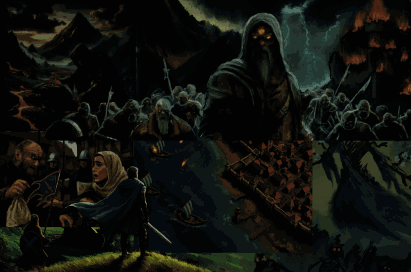
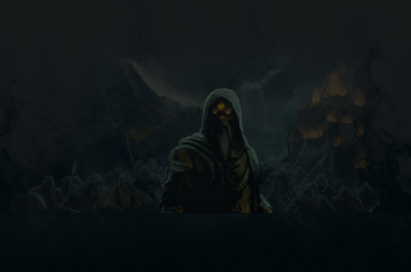
DEMO PATCH - new menu background, again

diff --git a/VikingEngine/DSSWars/GameState/LobbyState.cs b/VikingEngine/DSSWars/GameState/LobbyState.cs
@@ -114,7 +114,7 @@ namespace VikingEngine.DSSWars
                 mapBackgroundLoading = new MapBackgroundLoading(null as SaveStateMeta);
             }
 
-            Ref.draw.ClrColor = ColorExt.ChangeBrighness( new Color(29,54,67), -2);//new Color(11, 30, 34);
+            Ref.draw.ClrColor = new Color(2, 9, 12);//Ref.draw.ClrColor = ColorExt.ChangeBrighness( new Color(29,54,67), -2);//new Color(11, 30, 34);
 
             menuSystem = new Interface.MenuSystem(new InputMap(Engine.XGuide.LocalHostIndex), Interface.MenuType.Lobby);
             DssRef.storage.checkConnected();
@@ -619,7 +619,7 @@ namespace VikingEngine.DSSWars
 
         public static Texture2D LoadBg()
         {
-            var bgTex = Ref.main.Content.Load<Texture2D>(DssLib.ContentDir + "story_background"/*"darkforest_bg"*/);
+            var bgTex = Ref.main.Content.Load<Texture2D>(DssLib.ContentDir + "story_background2"/*"darkforest_bg"*/);
             return bgTex;
         }
 
@@ -638,22 +638,31 @@ namespace VikingEngine.DSSWars
         void createBackground()
         {
             float menuW = topMenu.backgroundArea.Width;//menuSystem.menu.area.Width;
-            float w = (Engine.Screen.SafeArea.Width - menuW) *  1f;
+            float w = (Engine.Screen.SafeArea.Width - menuW) * 0.9f;
             float h = w / bgTex.Width * bgTex.Height;
 
             var area = Engine.Screen.Area;
             area.AddToLeftSide(-menuW);
 
-            float x = Engine.Screen.Area.Right - w - 10;// area.Center.X - w * 0.5f;//Engine.Screen.SafeArea.Right - w + 10;
-            float y = Screen.CenterScreen.Y - h * 0.5f;
+            float x = area.Center.X - w * 0.5f;//Engine.Screen.SafeArea.Right - w + 10;
+            float y = Screen.Area.PercentToPosition(1, 0.55f).Y/*Screen.CenterScreen.Y*/ - h * 0.5f;
 
             bgImage = new Graphics.ImageAdvanced(SpriteName.NO_IMAGE,
                 new Vector2(x, y), new Vector2(w, h), ImageLayers.Background5, false);
             bgImage.Texture = bgTex;
             bgImage.SetFullTextureSource();
             //bgImage.Color = ColorExt.GrayScale(0.8f);
-            bgImage.Opacity = 0.8f;
+            bgImage.Opacity = 1;//0.8f;
 
+            var area2 = bgImage.Area;
+            area2.AddPercentRadius(0.1f);
+            area2.Y = 0;
+            ImageAdvanced bgimage2 = new Graphics.ImageAdvanced(SpriteName.NO_IMAGE,
+                area2.Position, area2.Size, ImageLayers.Background6, false);
+            bgimage2.Texture = bgTex;
+
+            bgimage2.SetFullTextureSource();
+            bgimage2.Color = ColorExt.GrayScale(0.9f);
             //Vector2 promoworkerSz = new Vector2(9, 6) * new Vector2(h * 0.02f);
 
             //var worker1 = new Graphics.Image(SpriteName.warsWorkerPromoCannon, VectorExt.AddY(Engine.Screen.Area.PercentToPosition(0.7f, 1f), -promoworkerSz.Y * 0.9f), promoworkerSz, ImageLayers.Background5);

diff --git a/VikingEngine/DSSWars/Data/Difficulty.cs b/VikingEngine/DSSWars/Data/Difficulty.cs
@@ -380,6 +380,7 @@ namespace VikingEngine.DSSWars.Data
                 }
             }
             difficulty = r.ReadInt32();
+            Bound.SetToArray(ref difficulty, options.Length);
 
             refreshSettings();
         }
